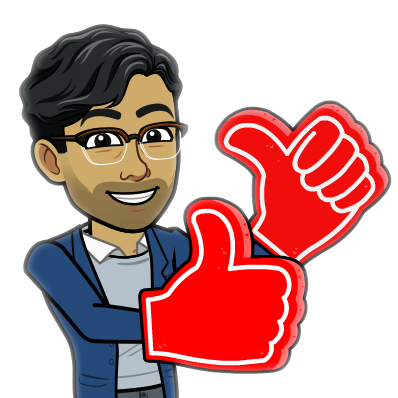
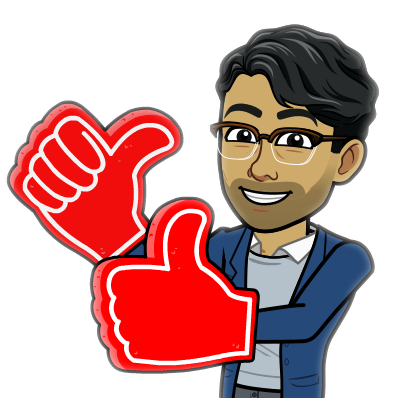
que?

diff --git a/README.md b/README.md
@@ -26,5 +26,5 @@
   }
 }
 ```
-<img align="left" src="thumb.png" height="300">
-<img height="300"  align="right" src="https://external-content.duckduckgo.com/iu/?u=http%3A%2F%2F38.media.tumblr.com%2Ffa7139d84f37f25a3179f1614415fd5c%2Ftumblr_ngcxbk7Y1U1s8i9ydo1_400.gif&f=1&nofb=1" alt="Haha funny"/>
+<img height="300"  align="left" src="https://external-content.duckduckgo.com/iu/?u=http%3A%2F%2F38.media.tumblr.com%2Ffa7139d84f37f25a3179f1614415fd5c%2Ftumblr_ngcxbk7Y1U1s8i9ydo1_400.gif&f=1&nofb=1" alt="Haha funny"/>
+<img align="right" src="thumb.png" height="300">
